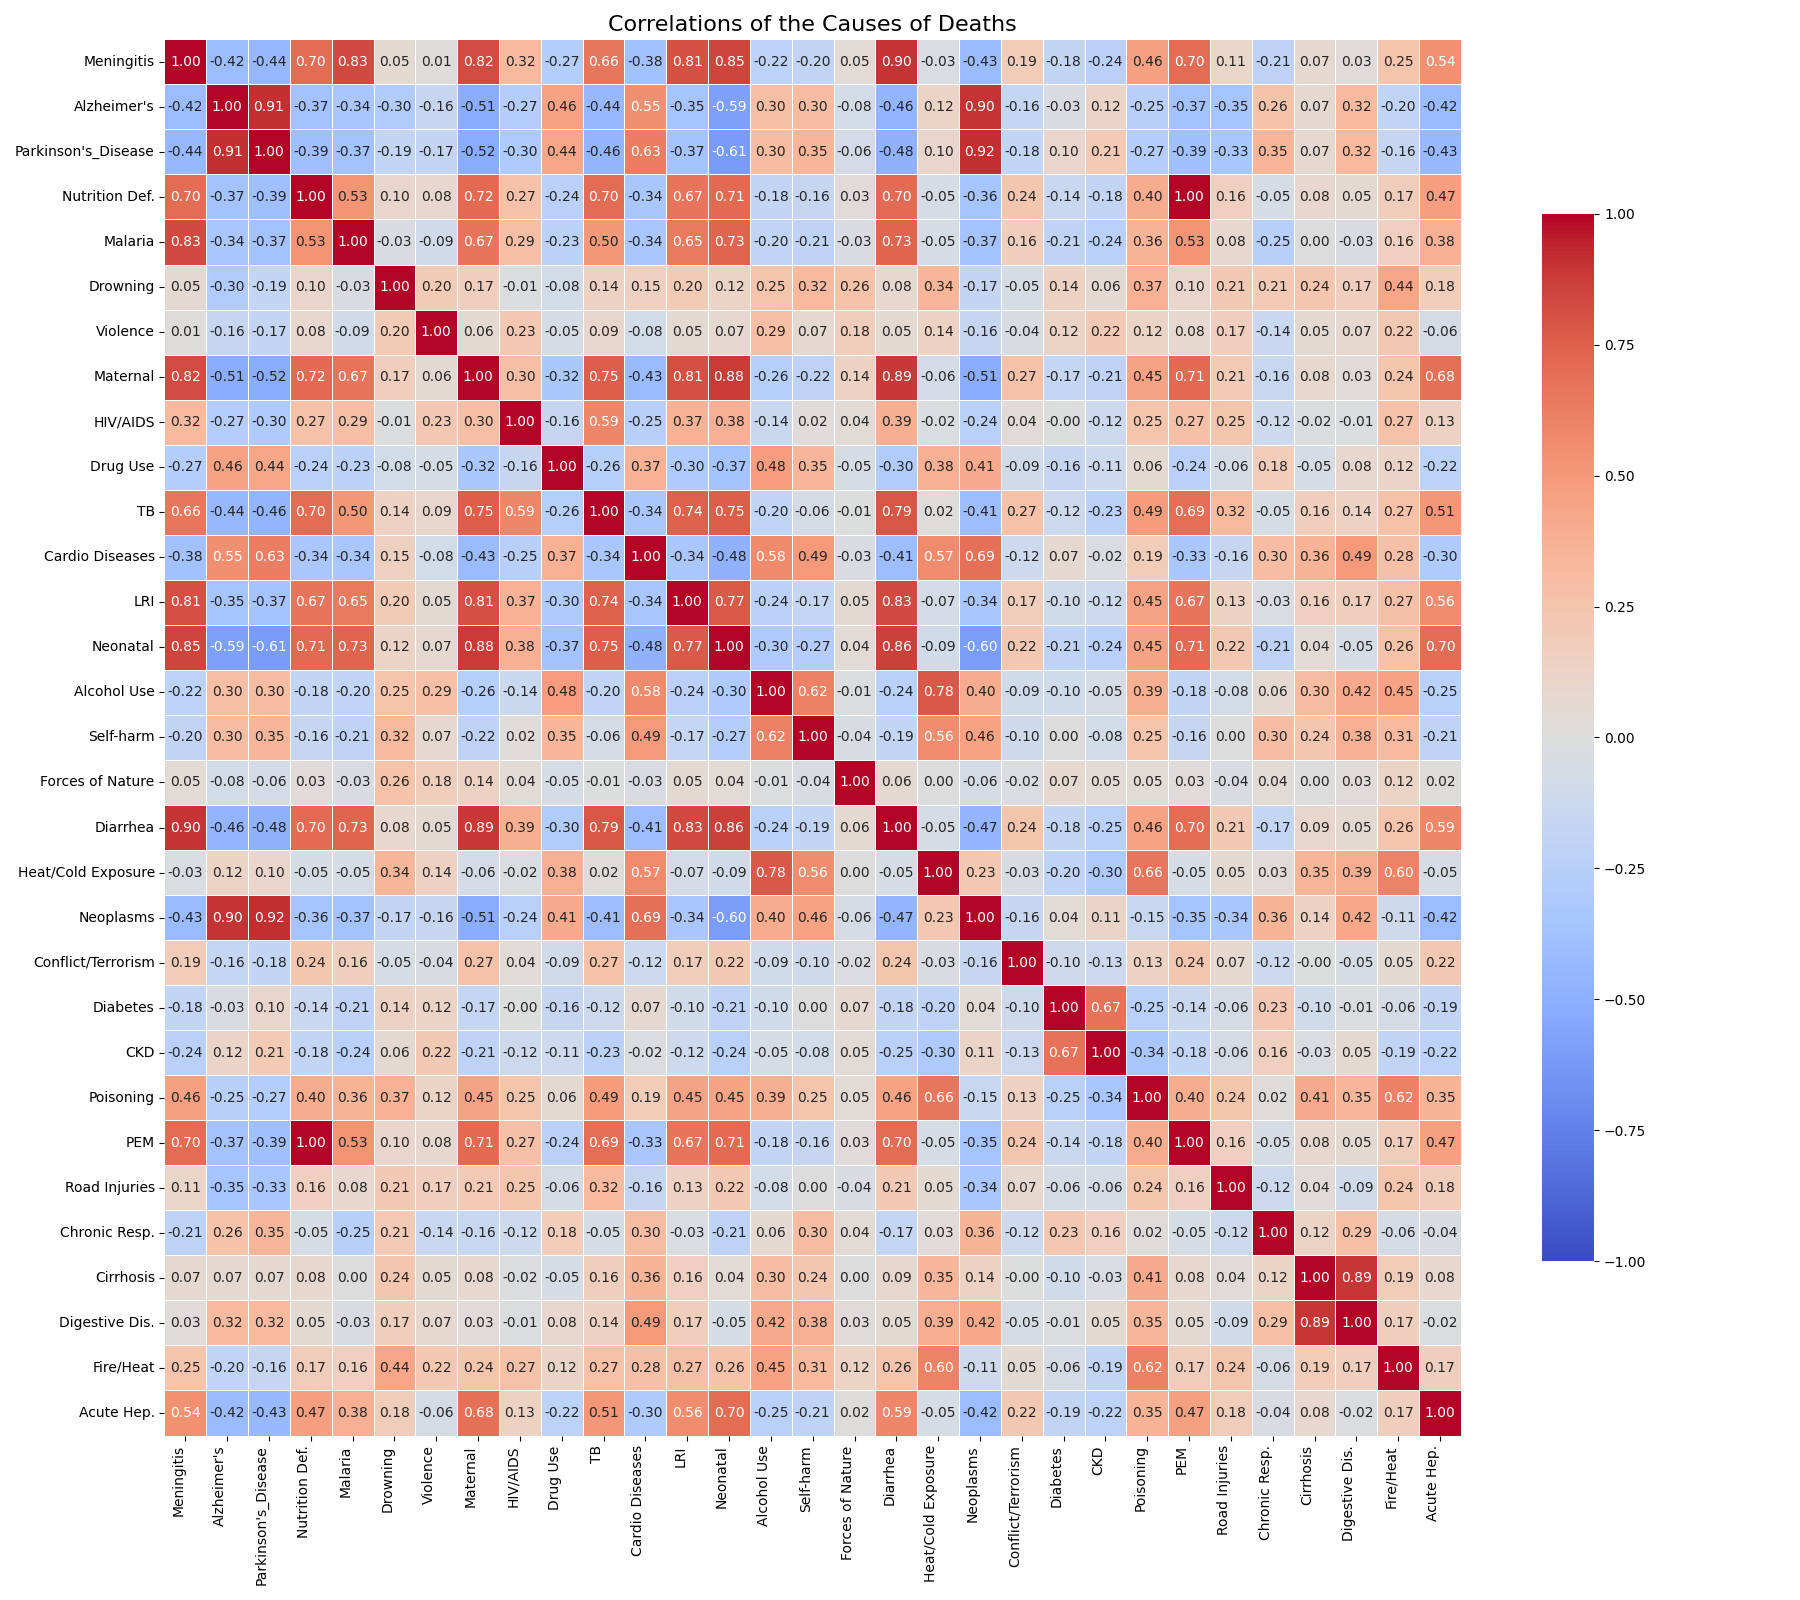
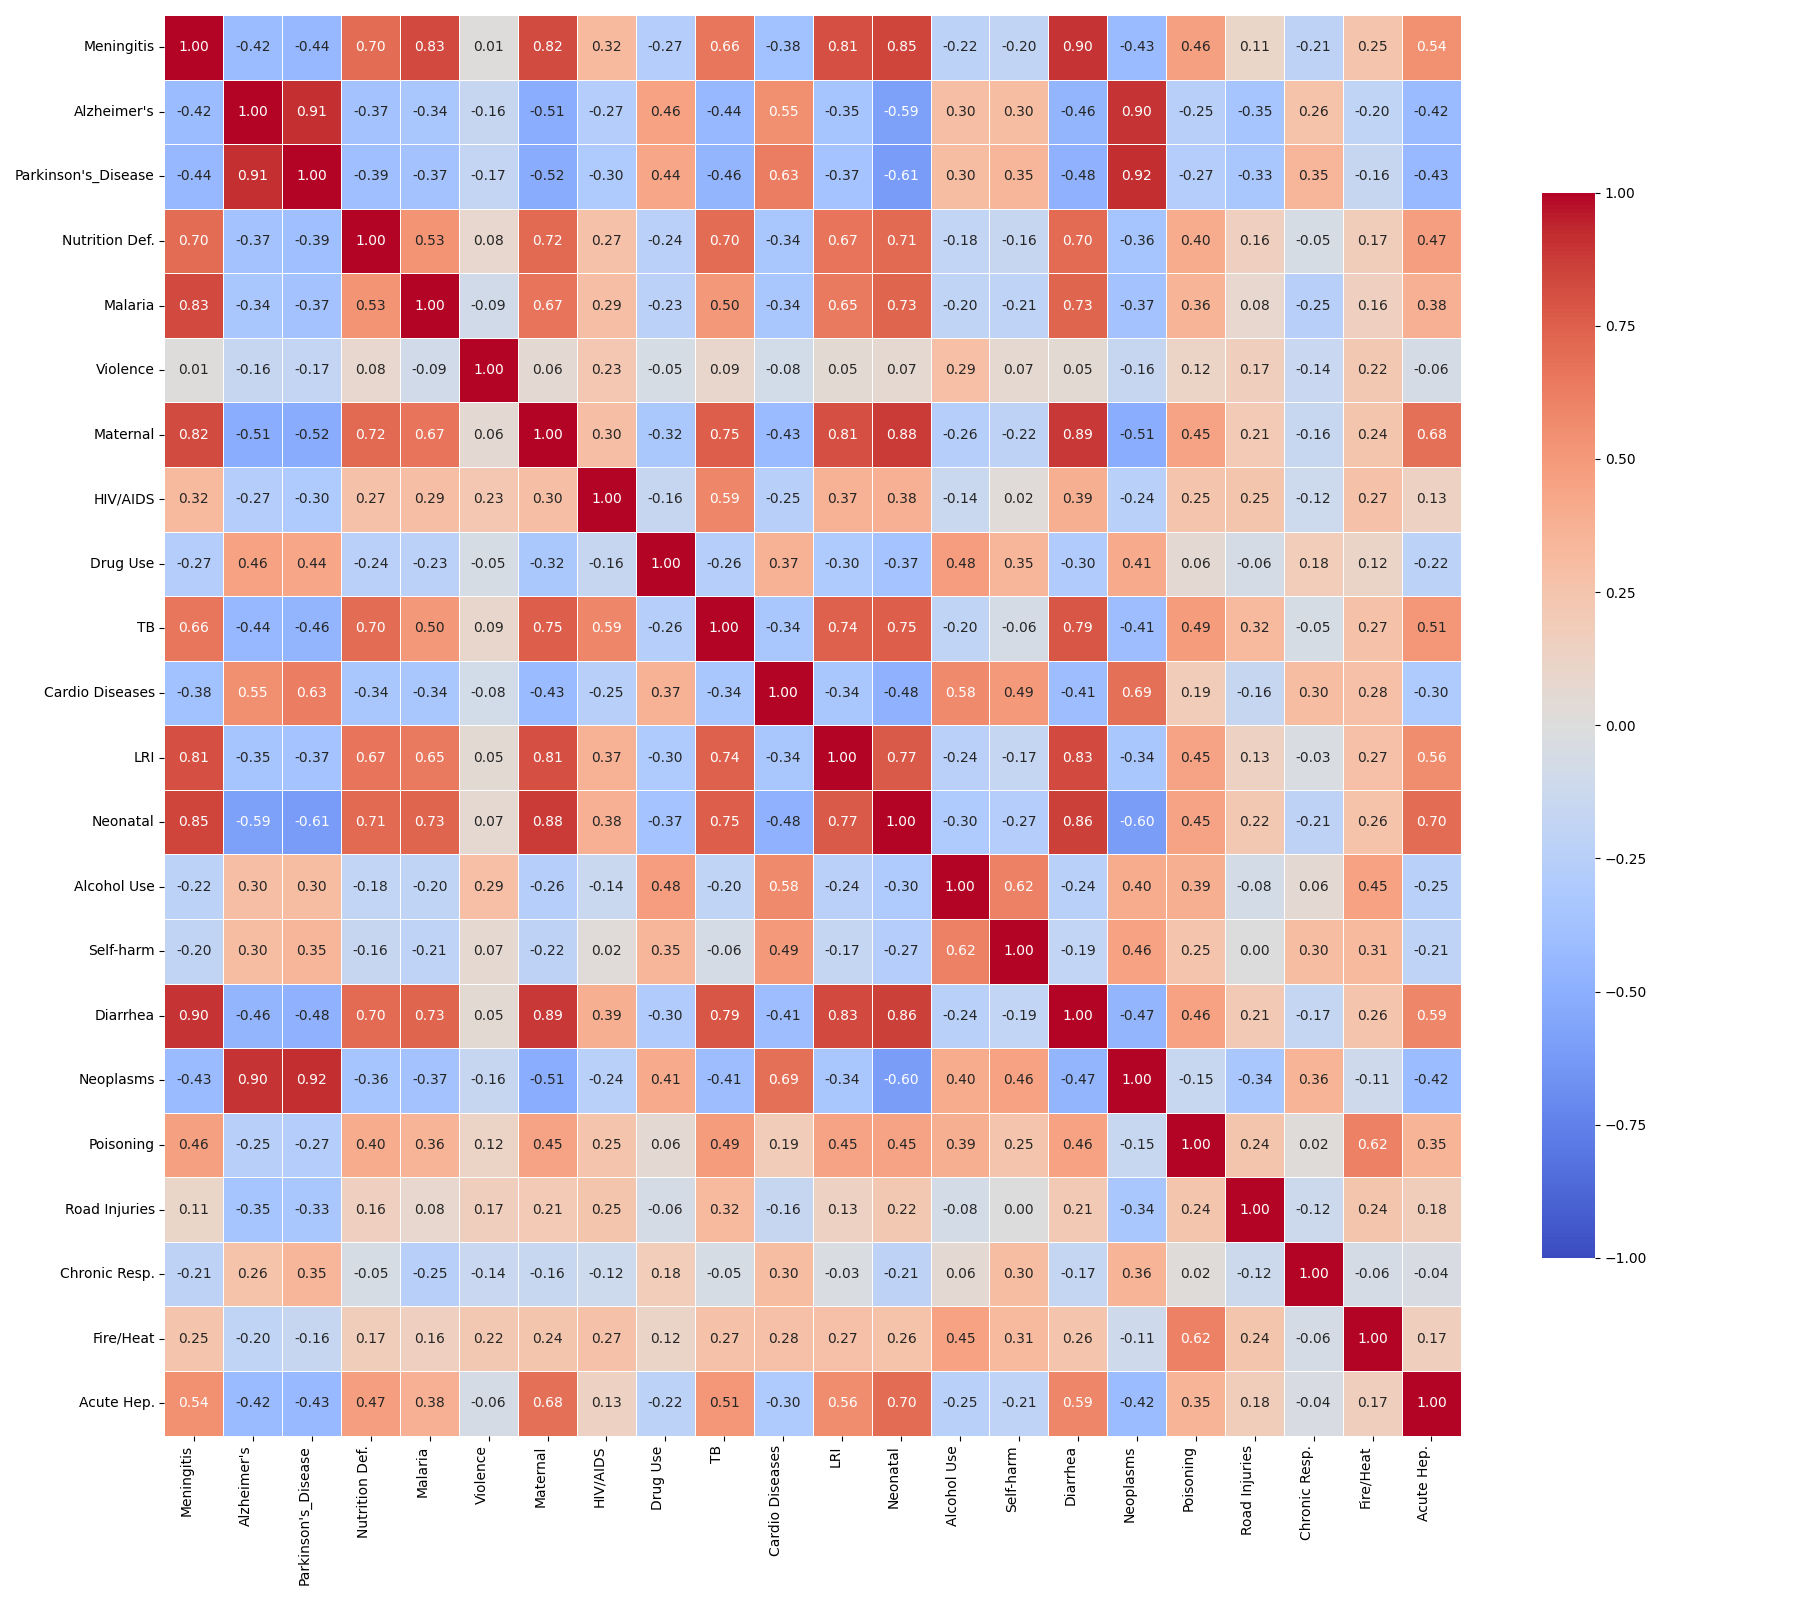
Graph editing

diff --git a/analyses/cause_of_deaths.py b/analyses/cause_of_deaths.py
@@ -61,12 +61,11 @@ death_causes_df.rename(columns={
     'Acute_Hepatitis': 'Acute Hep.'
 }, inplace=True)
 
-print(death_causes_df.columns)
+death_causes_df = death_causes_df.drop(columns=['Diabetes', 'CKD', 'Cirrhosis', 'Digestive Dis.', 'PEM', 'Conflict/Terrorism', 'Forces of Nature', 'Drowning', 'Heat/Cold Exposure'])
 
 correlation_matrix = death_causes_df.corr()
 plt.figure(figsize=(18, 16))
 sns.heatmap(correlation_matrix, annot=True, fmt=".2f", cmap="coolwarm", vmin=-1, vmax=1, linewidths=0.5, cbar_kws={"shrink": 0.75})
-plt.title('Correlations of the Causes of Deaths', fontsize=16)
 plt.xticks(rotation=90, ha='right')
 plt.yticks(rotation=0, va='center')
 plt.tight_layout()
